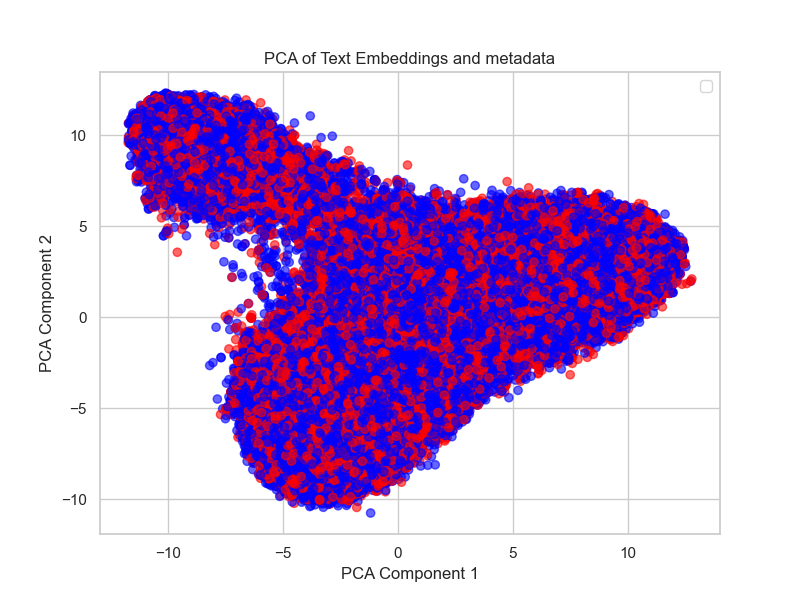
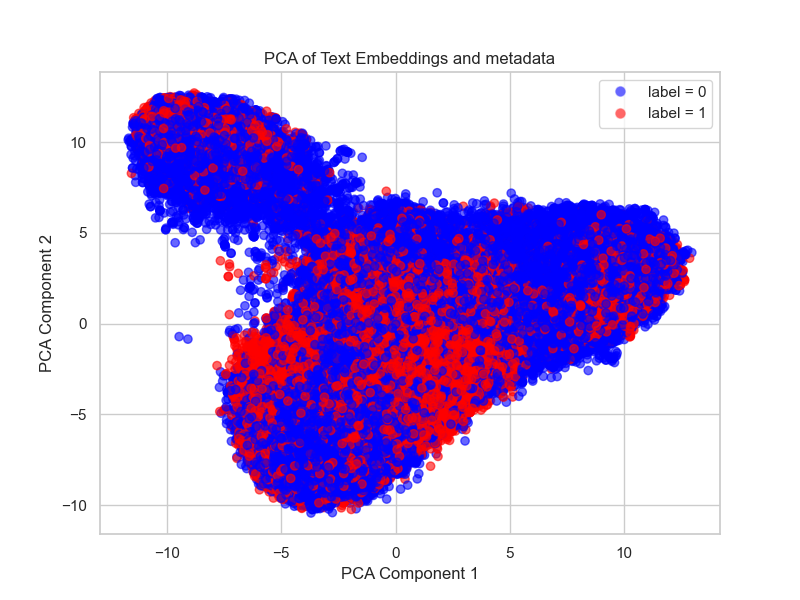
add statistics util

diff --git a/utility/statistics_utils.py b/utility/statistics_utils.py
@@ -1,0 +1,181 @@
+import os
+import sys
+
+sys.path.append(os.path.abspath(os.path.join(os.path.dirname(__file__), "..")))
+
+import matplotlib.pyplot as plt
+import numpy as np
+import pandas as pd
+import polars as pl
+import seaborn as sns
+from IPython.display import display
+from matplotlib.colors import ListedColormap
+from sklearn.decomposition import PCA
+from sklearn.preprocessing import StandardScaler
+from tqdm import tqdm
+
+from utility.file_utils import get_csv_dataframe
+
+NUMERIC_COLS = [
+    "word_count",
+    "character_count",
+    "lexical_diversity",
+    "avg_sentence_length",
+    "avg_word_length",
+    "flesch_reading_ease",
+    "gunning_fog_index",
+    "punctuation_ratio",
+]
+
+
+def load_data() -> tuple[pd.DataFrame, pd.DataFrame]:
+    """Load raw and processed datasets."""
+    df_before = get_csv_dataframe("data/Merged_dataset.csv")
+    df_after = pl.read_parquet("data/data.parquet").to_pandas()
+    return df_before, df_after
+
+
+def compute_text_lengths(df: pd.DataFrame) -> list[int]:
+    """Calculate word count for each text in dataframe."""
+    return [len(text.split()) for text in df["text"]]
+
+
+def plot_text_length_histogram(
+    text_lengths: list[int],
+    min_len: int = 100,
+    max_len: int = 1000,
+    save_path: str = "graphs/text_length_histogram.png",
+) -> None:
+    """Create and save histogram of text lengths with cutoff lines."""
+    sns.set(style="whitegrid")
+    plt.figure(figsize=(10, 6))
+
+    sns.histplot(text_lengths, bins=50, kde=True, color="skyblue")
+    plt.axvline(min_len, color="black", linestyle="--")
+    plt.axvline(max_len, color="black", linestyle="--")
+
+    plt.title("Histogram of Text Lengths")
+    plt.xlabel("Text Length")
+    plt.ylabel("Frequency")
+    plt.savefig(save_path)
+    print(f"Saved histogram in {save_path}")
+    plt.show()
+
+
+def display_basic_statistics(df: pd.DataFrame, stage: str) -> None:
+    """Display descriptive statistics for numeric columns."""
+    print(f"Basic statistics {stage} processing:")
+    display(df[NUMERIC_COLS].describe())
+
+
+def display_label_distribution(df: pd.DataFrame, stage: str) -> None:
+    """Display percentage distribution of generated labels."""
+    if isinstance(df, pl.DataFrame):
+        gen_pct = df["generated"].value_counts(normalize=True).to_pandas()
+        result = gen_pct.loc[:, ["generated", "proportion"]].rename(
+            columns={"generated": "label", "proportion": "percentage"}
+        )
+    else:
+        gen_pct = (
+            df["generated"]
+            .value_counts(normalize=True)
+            .rename_axis("label")
+            .reset_index(name="percentage")
+        )
+        result = gen_pct[["label", "percentage"]]
+
+    result["percentage"] = (result["percentage"] * 100).round(2)
+    print(f"Label distribution {stage} processing:")
+    print(result.to_string(index=False))
+
+
+def combine_features(df: pd.DataFrame) -> np.ndarray:
+    """Stack embeddings and numeric features into combined array."""
+    print("Stacking embeddings...")
+    emb_list = df["embedding"].values
+    emb_array = np.vstack(list(tqdm(emb_list, desc="Embedding stacking")))
+
+    numeric_array = df[NUMERIC_COLS].to_numpy()
+    combined = np.hstack([emb_array, numeric_array])
+
+    print(f"Combined feature shape: {combined.shape}")
+    return combined
+
+
+def normalize_features(features: np.ndarray) -> np.ndarray:
+    """Standardize features using StandardScaler."""
+    scaler = StandardScaler()
+    return scaler.fit_transform(features)
+
+
+def perform_pca(features: np.ndarray, n_components: int = 5) -> np.ndarray:
+    """Run PCA dimensionality reduction."""
+    print("Running PCA...")
+    pca = PCA(n_components=n_components, svd_solver="randomized")
+    pca_result = pca.fit_transform(features)
+    print("PCA complete.")
+    return pca_result, pca
+
+
+def display_pca_variance(pca: PCA) -> None:
+    """Display explained variance table for PCA components."""
+    explained_var = pca.explained_variance_ratio_
+    cumulative_var = np.cumsum(explained_var)
+
+    pca_table = pd.DataFrame(
+        {
+            "PC": [f"PC{i}" for i in range(1, len(explained_var) + 1)],
+            "Explained Variance (%)": (explained_var * 100).round(2),
+            "Cumulative Variance (%)": (cumulative_var * 100).round(2),
+        }
+    )
+    display(pca_table)
+
+
+def plot_pca_scatter(
+    pca_result: np.ndarray,
+    labels: pd.Series,
+    save_path: str = "graphs/embedding_pca_scatterplot.png",
+) -> None:
+    """Create and save PCA scatter plot colored by labels."""
+    cmap = ListedColormap(["blue", "red"])
+    plt.figure(figsize=(8, 6))
+
+    plt.scatter(
+        pca_result[:, 0],
+        pca_result[:, 1],
+        c=labels,
+        cmap=cmap,
+        alpha=0.6,
+    )
+
+    handles = [
+        plt.Line2D(
+            [0],
+            [0],
+            marker="o",
+            color="w",
+            label="label = 0",
+            markerfacecolor="blue",
+            markersize=8,
+            alpha=0.6,
+        ),
+        plt.Line2D(
+            [0],
+            [0],
+            marker="o",
+            color="w",
+            label="label = 1",
+            markerfacecolor="red",
+            markersize=8,
+            alpha=0.6,
+        ),
+    ]
+    plt.legend(handles=handles)
+
+    plt.xlabel("PCA Component 1")
+    plt.ylabel("PCA Component 2")
+    plt.title("PCA of Text Embeddings and metadata")
+    plt.savefig(save_path)
+    print(f"Saved scatter plot in {save_path}")
+    plt.show()

diff --git a/scripts/run_statistics.py b/scripts/run_statistics.py
@@ -1,0 +1,48 @@
+import os
+import sys
+
+sys.path.append(os.path.abspath(os.path.join(os.path.dirname(__file__), "..")))
+
+from utility.statistics_utils import (
+    combine_features,
+    compute_text_lengths,
+    display_basic_statistics,
+    display_label_distribution,
+    display_pca_variance,
+    load_data,
+    normalize_features,
+    perform_pca,
+    plot_pca_scatter,
+    plot_text_length_histogram,
+)
+
+
+def main() -> None:
+    """Execute complete analysis pipeline."""
+    # Load data
+    df_before, df_after = load_data()
+
+    # Text length analysis
+    text_lengths = compute_text_lengths(df_before)
+    plot_text_length_histogram(text_lengths)
+
+    # Statistics before processing
+    display_basic_statistics(df_before, "before")
+    display_label_distribution(df_before, "before")
+
+    # PCA analysis
+    combined_features = combine_features(df_after)
+    scaled_features = normalize_features(combined_features)
+    pca_result, pca_model = perform_pca(scaled_features)
+
+    # Display PCA results
+    display_pca_variance(pca_model)
+    plot_pca_scatter(pca_result, df_after["generated"])
+
+    # Statistics after processing
+    display_basic_statistics(df_after, "after")
+    display_label_distribution(df_after, "after")
+
+
+if __name__ == "__main__":
+    main()

diff --git a/scripts/run_neural_network_model_training.py b/scripts/run_neural_network_model_training.py
@@ -2,7 +2,7 @@
 This script trains a neural network model on the processed dataset located at data/data.parquet.
 It uses PyTorch for model definition, training, and evaluation.
 
-After training it runs evaluation on the test set and plots 
+After training it runs evaluation on the test set and plots
 the confusion matrix and training history.
 
 
